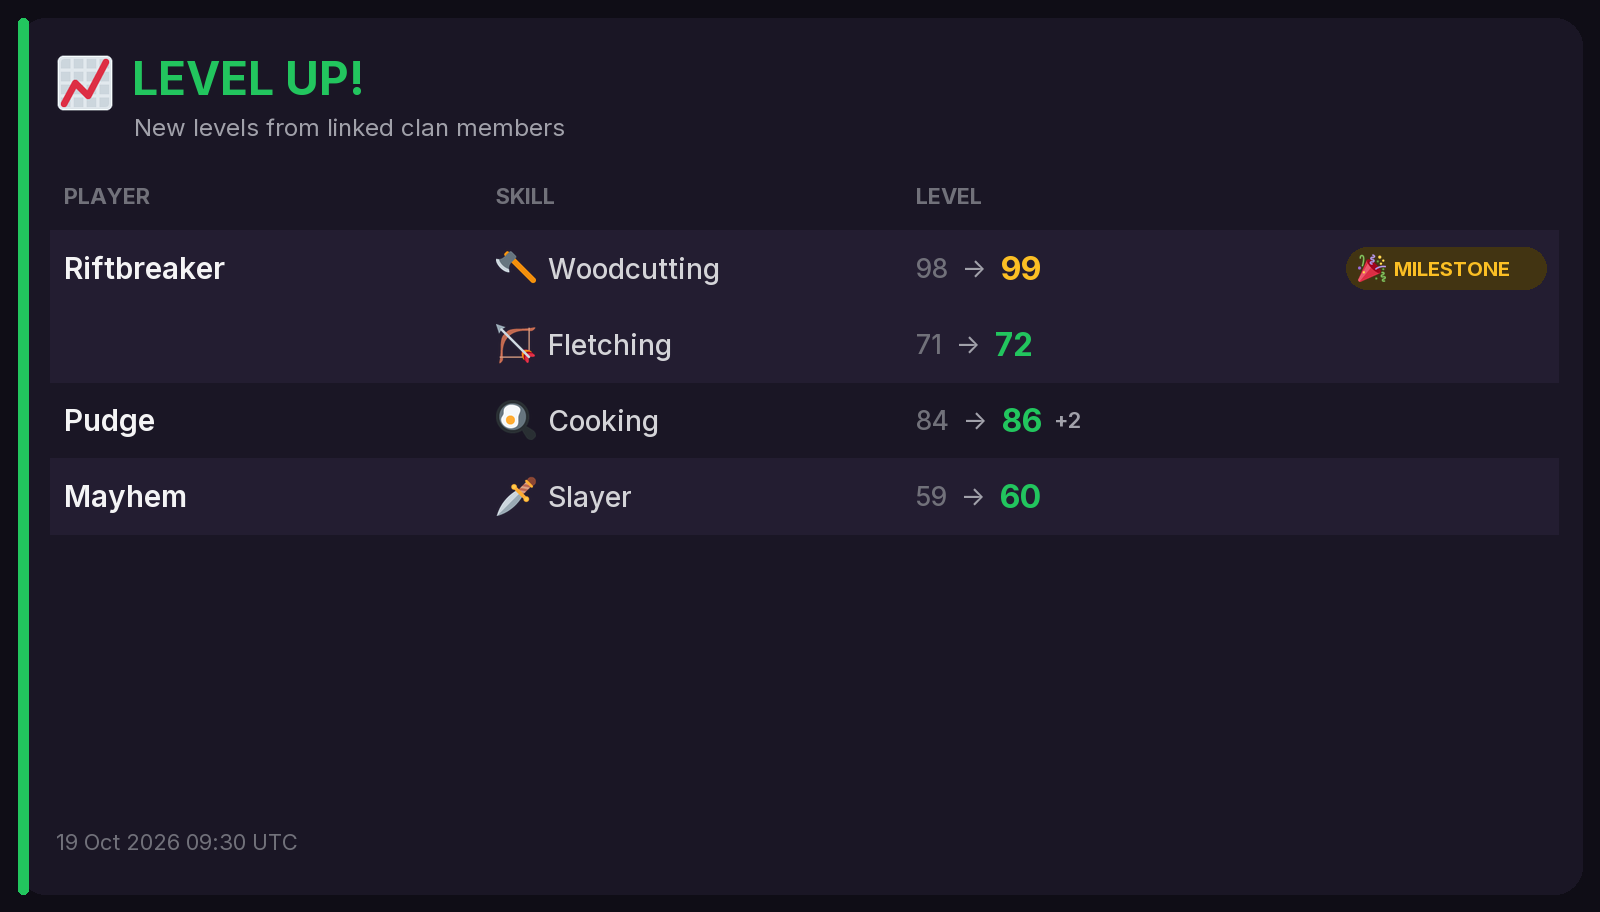
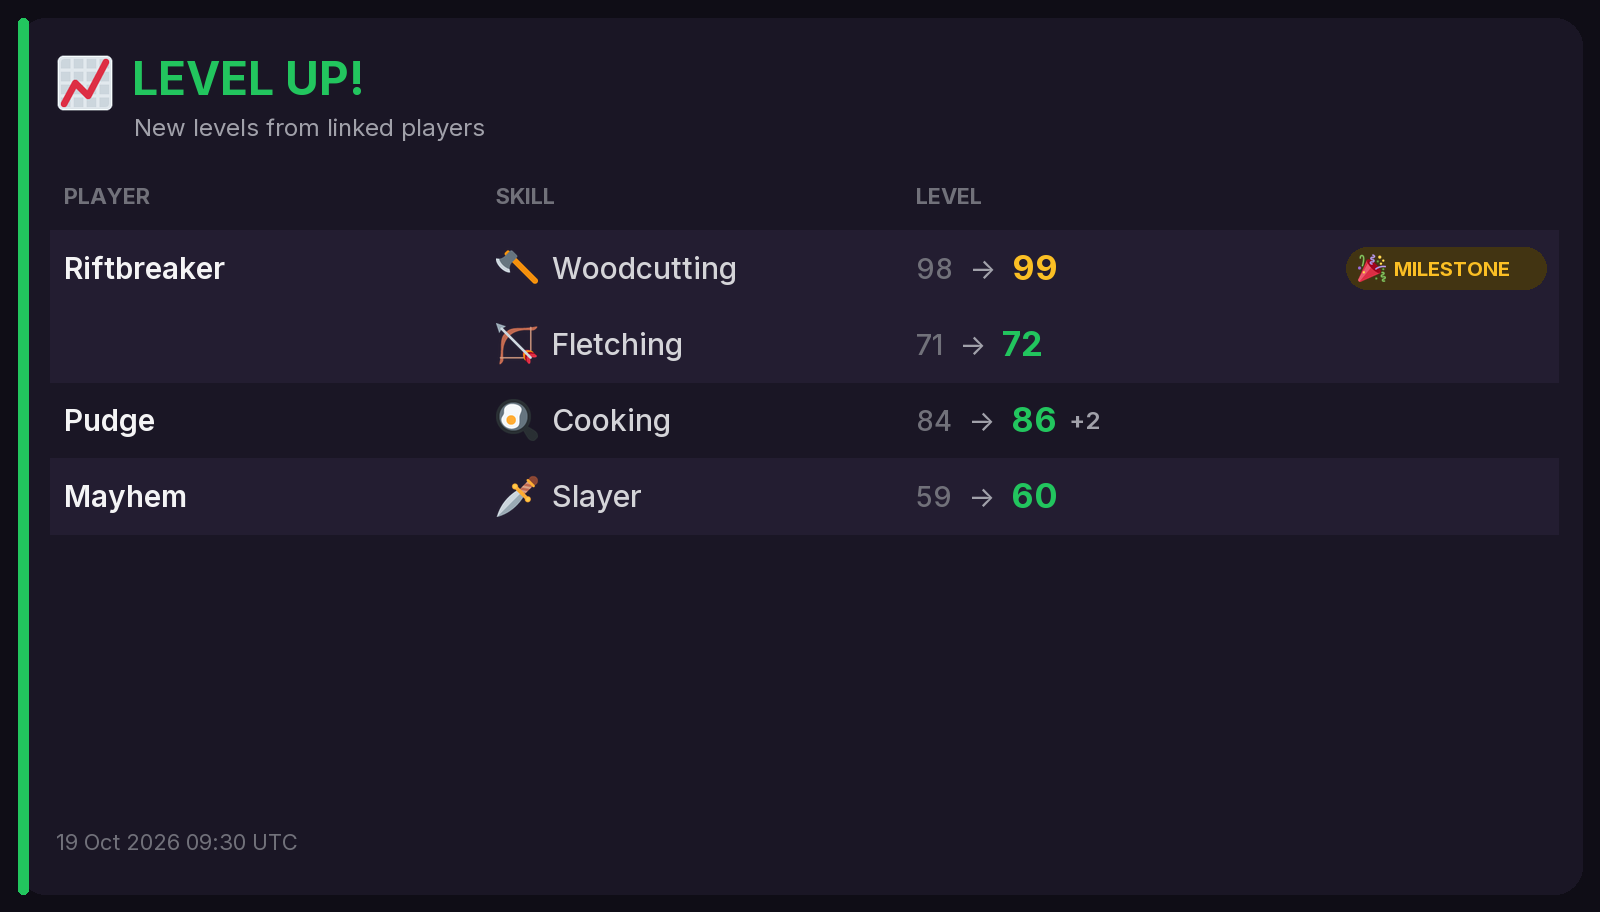
v1.2.0: running level-up post in the clan feed, API usage log
- Level-ups go into one post that is edited in place while it is the
  newest message in the feed channel, on the same UTC day, with room;
  up to 7 rows in one column, extra rows continue in a new post.
- The same player and skill again updates its row instead of adding one.
- Level-up subtitle names the clan when a clan token is linked.
- Log requests per token every 15 minutes.

diff --git a/bot/cogs/feed.py b/bot/cogs/feed.py
@@ -1,8 +1,11 @@
 """Clan feed and XP gains.
 
 - Level-ups: every minute, linked players' saved levels are compared with the
-  levels already announced; new ones are posted to the feed channel in one
-  message. A player's first snapshot only sets the baseline, so linking
+  levels already announced. New ones are added to the running level-up post,
+  edited in place, while it is still the newest message in the feed channel,
+  from the same UTC day, and has room (MAX_FEED_ROWS, 7). Otherwise (another
+  announcement went out, someone posted, or a new day) a new post starts, and
+  rows that don't fit continue in further posts. A player's first snapshot only sets the baseline, so linking
   doesn't flood the feed.
 - Weekly top gainers: posted to the feed channel on Mondays (UTC).
 - /gains and /topgains: XP gained over a day, week or month, from the daily
@@ -15,6 +18,8 @@ it costs no extra API calls.
 from __future__ import annotations
 
 import asyncio
+import dataclasses
+import io
 import logging
 from datetime import datetime, timedelta, timezone
 from typing import TYPE_CHECKING
@@ -27,7 +32,7 @@ from ..alerts import post_alert
 from ..db import Snapshot
 from ..fmt import compact, num
 from ..progress import Gains, gains
-from ..render import Gainer, LevelUp, render_level_ups, render_top_gainers
+from ..render import MAX_FEED_ROWS, Gainer, LevelUp, render_level_ups, render_top_gainers
 from ..skills import skill_emoji, skill_label, skill_name
 
 if TYPE_CHECKING:
@@ -69,6 +74,24 @@ def gainer_rows(ranked: list[tuple[Snapshot, Gains]]) -> list[Gainer]:
         key, (xp, _) = max(g.skills.items(), key=lambda kv: kv[1][0])
         rows.append(Gainer(snap.username, f"+{compact(g.total_xp)}", g.levels, skill_emoji(key), skill_name(key), f"+{compact(xp)}"))
     return rows
+
+
+def merge_level_ups(current: list[LevelUp], new: list[LevelUp]) -> list[LevelUp]:
+    """Add `new` to the rows already shown. The same player and skill again becomes one row (98 -> 100,
+    keeping the first "from" level), and each player's rows stay together for the shaded bands."""
+    rows = list(current)
+    for item in new:
+        same = next((i for i, r in enumerate(rows) if r.player == item.player and r.skill == item.skill), None)
+        if same is None:
+            rows.append(item)
+        else:
+            old = rows[same].old
+            rows[same] = dataclasses.replace(item, old=old,
+                                             milestone=any(old < m <= item.new for m in MILESTONES))
+    order = {}
+    for r in rows:
+        order.setdefault(r.player, len(order))
+    return sorted(rows, key=lambda r: order[r.player])  # stable: keeps each player's rows in order
 
 
 class Feed(commands.Cog):
@@ -126,7 +149,6 @@ class Feed(commands.Cog):
 
         names = {s.character_id: s.username for s in snapshots}
         log.info("Level-ups: %s", {uid: [(k, n) for k, _, n in ch] for uid, ch in level_ups.items()})
-        footer = f"{datetime.now(timezone.utc):%d %b %Y %H:%M} UTC"
         for cfg in await self.bot.db.feature_targets(FEATURE):
             guild = self.bot.get_guild(cfg.guild_id)
             if guild is None:
@@ -139,8 +161,51 @@ class Feed(commands.Cog):
                 for key, old, new in changed
             ]
             if items:
-                png = await asyncio.to_thread(render_level_ups, items, footer)
-                await post_alert(self.bot, FEATURE, image=png, filename="level-ups.png", ping=False, guild_id=cfg.guild_id)
+                await self.post_level_ups(cfg, items)
+
+    async def post_level_ups(self, cfg, items: list[LevelUp]) -> None:
+        """Add level-ups to this server's running post, or start a new one (see the module docstring). Rows
+        past MAX_FEED_ROWS continue in new posts, so every card stays one column."""
+        channel = self.bot.get_channel(cfg.channel_id)
+        if not isinstance(channel, discord.TextChannel):
+            return
+        now = datetime.now(timezone.utc)
+        state = await self.bot.db.get_state("feed_levelups") or {}
+        post = state.get(str(cfg.guild_id)) or {}
+        open_post = bool(post.get("message_id") and post.get("channel_id") == channel.id
+                         and channel.last_message_id == post["message_id"]
+                         and post.get("day") == now.date().isoformat())
+        rows = merge_level_ups([LevelUp(**i) for i in post.get("items") or []] if open_post else [], items)
+        chunks = [rows[i:i + MAX_FEED_ROWS] for i in range(0, len(rows), MAX_FEED_ROWS)]
+        footer = f"{now:%d %b %Y} · last update {now:%H:%M} UTC"
+        tag = self.bot.clan_tag
+        subtitle = f"New levels from linked [{tag}] members" if tag else "New levels from linked players"
+
+        for n, chunk in enumerate(chunks):
+            png = await asyncio.to_thread(render_level_ups, chunk, footer, subtitle)
+            message = None
+            if n == 0 and open_post:
+                try:
+                    message = await channel.get_partial_message(post["message_id"]).edit(
+                        attachments=[discord.File(io.BytesIO(png), filename="level-ups.png")])
+                    log.info("Level-ups edited in guild %s (%d rows)", cfg.guild_id, len(chunk))
+                except discord.NotFound:
+                    message = None  # deleted: post it again below
+                except discord.HTTPException as e:
+                    log.warning("Couldn't edit the level-up post in guild %s: %s", cfg.guild_id, e)
+                    return
+            if message is None:
+                sent = await post_alert(self.bot, FEATURE, image=png, filename="level-ups.png", ping=False,
+                                        guild_id=cfg.guild_id)
+                message = sent.get(cfg.guild_id)
+                if message is None:
+                    return
+                log.info("Level-ups posted in guild %s (%d rows)", cfg.guild_id, len(chunk))
+            state[str(cfg.guild_id)] = {
+                "message_id": message.id, "channel_id": channel.id, "day": now.date().isoformat(),
+                "items": [dataclasses.asdict(i) for i in chunk],
+            }
+            await self.bot.db.set_state("feed_levelups", state)
 
     # ---------- weekly recap ----------
 

diff --git a/bot/render.py b/bot/render.py
@@ -186,8 +186,7 @@ def render_board(board: Board) -> bytes:
 GREEN = (34, 197, 94)
 GOLD = (251, 191, 36)
 FEED_ROW = 76
-FEED_ROWS = (BODY - COLH) // FEED_ROW  # per column (7)
-MAX_FEED_ROWS = 2 * FEED_ROWS
+MAX_FEED_ROWS = (BODY - COLH) // FEED_ROW  # rows that fit on one card (7); more go in another post
 
 
 @dataclass
@@ -200,50 +199,43 @@ class LevelUp:
     milestone: bool
 
 
-def render_level_ups(items: list[LevelUp], footer: str) -> bytes:
-    """One row per skill levelled; rows for the same player share a shaded band. More than fit in one
-    column go into a second; past that, "…and N more" in the footer."""
+def render_level_ups(items: list[LevelUp], footer: str, subtitle: str = "New levels from linked players") -> bytes:
+    """One row per skill levelled; rows for the same player share a shaded band. Callers keep it to
+    MAX_FEED_ROWS rows (the clan feed starts another post for the rest)."""
     shown, hidden = items[:MAX_FEED_ROWS], len(items) - MAX_FEED_ROWS
-    columns = 1 if len(shown) <= FEED_ROWS else 2
     img, d = _card(GREEN)
-    _header(img, d, "📈", "Level up!", "New levels from linked clan members", GREEN)
+    _header(img, d, "📈", "Level up!", subtitle, GREEN)
     x0 = PAD + 20
-    panel_w = (W - x0 - PAD - BOARD_GAP * (columns - 1)) // columns
-    skill_dx, level_dx = (440, 860) if columns == 1 else (230, 480)
-    for c in range(columns):
-        px = x0 + c * (panel_w + BOARD_GAP)
-        player_x, skill_x, level_x = px + 8, px + skill_dx, px + level_dx
-        y = PAD + HEAD
-        _headings(d, y, [(player_x, "Player"), (skill_x, "Skill"), (level_x, "Level")])
-        y += COLH
-        band, previous = -1, None
-        for item in shown[c * FEED_ROWS:(c + 1) * FEED_ROWS]:
-            if item.player != previous:
-                band += 1
-            if band % 2 == 0:
-                d.rectangle((px - 6, y, px + panel_w - 6, y + FEED_ROW), fill=ROW_SHADE)
-            mid = y + FEED_ROW // 2
-            if item.player != previous:
-                shown_name, font = _shrink(d, item.player, 30, "SemiBold", skill_x - player_x - 20, 22)
-                d.text((player_x, mid), shown_name, font=font, fill=TEXT, anchor="lm")
-            _paste_emoji(img, item.skill_emoji, 40, (skill_x, mid - 20))
-            d.text((skill_x + 52, mid), _fit(d, item.skill, _font(28, "Medium"), level_x - skill_x - 64),
-                   font=_font(28, "Medium"), fill=NAME, anchor="lm")
-            runs = [(f"{item.old}", _font(26, "Medium"), FAINT), ("  →  ", _font(26), MUTED),
-                    (f"{item.new}", _font(32, "Bold"), GOLD if item.milestone else GREEN)]
-            if item.new - item.old > 1:
-                runs.append((f"  +{item.new - item.old}", _font(22, "SemiBold"), MUTED))
-            end = _runs(d, (level_x, mid), runs)
-            if item.milestone and columns == 1:
-                pill_w = 200
-                pill_x = max(end + 16, px + panel_w - 18 - pill_w)  # right-aligned in the row
-                d.rounded_rectangle((pill_x, mid - 21, pill_x + pill_w, mid + 21), 21, fill=(66, 52, 18))
-                _paste_emoji(img, "🎉", 28, (pill_x + 12, mid - 14))
-                d.text((pill_x + 48, mid), "MILESTONE", font=_font(20, "Bold"), fill=GOLD, anchor="lm")
-            elif item.milestone:
-                _paste_emoji(img, "🎉", 30, (end + 14, mid - 15))
-            previous = item.player
-            y += FEED_ROW
+    player_x, skill_x, level_x = x0 + 8, x0 + 440, x0 + 860
+    y = PAD + HEAD
+    _headings(d, y, [(player_x, "Player"), (skill_x, "Skill"), (level_x, "Level")])
+    y += COLH
+
+    band, previous = -1, None
+    for item in shown:
+        if item.player != previous:
+            band += 1
+        if band % 2 == 0:
+            d.rectangle((x0 - 6, y, W - PAD - 6, y + FEED_ROW), fill=ROW_SHADE)
+        mid = y + FEED_ROW // 2
+        if item.player != previous:
+            name, font = _shrink(d, item.player, 30, "SemiBold", skill_x - player_x - 24, 22)
+            d.text((player_x, mid), name, font=font, fill=TEXT, anchor="lm")
+        _paste_emoji(img, item.skill_emoji, 42, (skill_x, mid - 21))
+        d.text((skill_x + 56, mid), item.skill, font=_font(30, "Medium"), fill=NAME, anchor="lm")
+        runs = [(f"{item.old}", _font(28, "Medium"), FAINT), ("  →  ", _font(28), MUTED),
+                (f"{item.new}", _font(34, "Bold"), GOLD if item.milestone else GREEN)]
+        if item.new - item.old > 1:
+            runs.append((f"  +{item.new - item.old}", _font(24, "SemiBold"), MUTED))
+        end = _runs(d, (level_x, mid), runs)
+        if item.milestone:
+            pill_w = 200
+            pill_x = max(end + 16, W - PAD - 18 - pill_w)  # right-aligned in the row
+            d.rounded_rectangle((pill_x, mid - 21, pill_x + pill_w, mid + 21), 21, fill=(66, 52, 18))
+            _paste_emoji(img, "🎉", 28, (pill_x + 12, mid - 14))
+            d.text((pill_x + 48, mid), "MILESTONE", font=_font(20, "Bold"), fill=GOLD, anchor="lm")
+        previous = item.player
+        y += FEED_ROW
     _footer(d, footer + (f" · …and {hidden} more" if hidden > 0 else ""))
     return _png(img)
 

diff --git a/bot/api.py b/bot/api.py
@@ -20,7 +20,7 @@ import hashlib
 import logging
 import random
 import time
-from collections import defaultdict
+from collections import Counter, defaultdict
 from dataclasses import dataclass
 from datetime import datetime, timezone
 from email.utils import parsedate_to_datetime
@@ -39,6 +39,7 @@ BURST = 10  # requests a token may make back to back before pacing kicks in
 MAX_ATTEMPTS = 4
 DEFAULT_CACHE_SECONDS = 30
 MAX_CACHE_SECONDS = 600
+USAGE_LOG_SECONDS = 900  # how often to log requests made per token
 
 
 class KoruxaError(Exception):
@@ -128,6 +129,8 @@ class KoruxaAPI:
         self._buckets: dict[str, _Bucket] = {}
         self._cache: dict[tuple, _CacheEntry] = {}
         self._locks: defaultdict[tuple, asyncio.Lock] = defaultdict(asyncio.Lock)
+        self._usage: defaultdict[str, Counter] = defaultdict(Counter)  # token fingerprint -> requests per path
+        self._usage_since = time.monotonic()
 
     async def start(self) -> None:
         self._session = aiohttp.ClientSession(
@@ -192,6 +195,7 @@ class KoruxaAPI:
 
         for attempt in range(MAX_ATTEMPTS):
             await bucket.acquire(max_wait)
+            self._count(fp, path)
             try:
                 status, retry_after, data = await self._send(path, params, headers)
             except (aiohttp.ClientError, asyncio.TimeoutError, ValueError) as e:
@@ -222,6 +226,19 @@ class KoruxaAPI:
         if last_error == "429":
             raise RateLimited(max(bucket.blocked_until - time.monotonic(), 1.0))
         raise KoruxaError(f"giving up on /{path}: {last_error}")
+
+    def _count(self, fp: str, path: str) -> None:
+        """Count requests actually sent (cache hits aren't), and log the totals every USAGE_LOG_SECONDS."""
+        self._usage[fp][path] += 1
+        elapsed = time.monotonic() - self._usage_since
+        if elapsed < USAGE_LOG_SECONDS:
+            return
+        for token, paths in sorted(self._usage.items(), key=lambda t: -sum(t[1].values())):
+            total = sum(paths.values())
+            log.info("API usage, token %s: %d requests in %.0f min (%.0f/hour): %s", token, total, elapsed / 60,
+                     total * 3600 / elapsed, ", ".join(f"/{p} {n}" for p, n in paths.most_common()))
+        self._usage.clear()
+        self._usage_since = time.monotonic()
 
     @staticmethod
     def _check_body(data: Any, bucket: _Bucket) -> dict[str, Any]:

diff --git a/CHANGELOG.md b/CHANGELOG.md
@@ -2,6 +2,16 @@
 
 All notable changes to the Koruxa Discord Bot. Dates are UTC.
 
+## [1.2.0] - 2026-10-17
+
+### Changed
+- **Clan feed level-ups are one running post**, edited in place as new level-ups come in, instead of a new post each time. A new post starts when another message has gone out in the channel since (so the one being edited is always the newest), when the UTC day changes, or when the post is full. Each post holds up to 7 rows in one column; extra rows continue in the next post.
+- The same player levelling the same skill again updates their row (e.g. *Woodcutting 98 → 100*) instead of adding another.
+- The level-up card's subtitle says who it covers: "linked [TAG] members" with a clan token linked, "linked players" without.
+
+### Added
+- The bot logs how many API requests each token made every 15 minutes (tokens shown as short fingerprints), to check usage against the hourly limits.
+
 ## [1.1.0] - 2026-10-17
 
 ### Added
